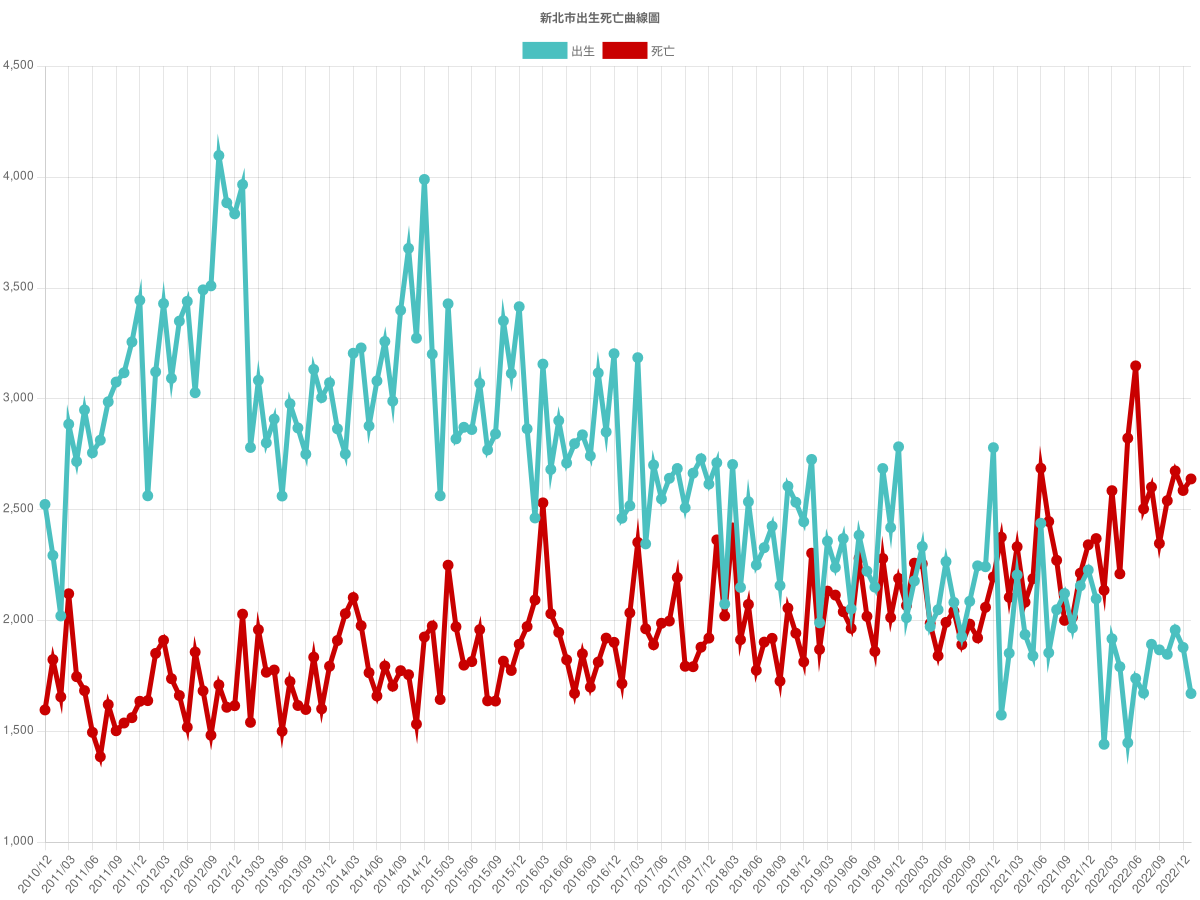
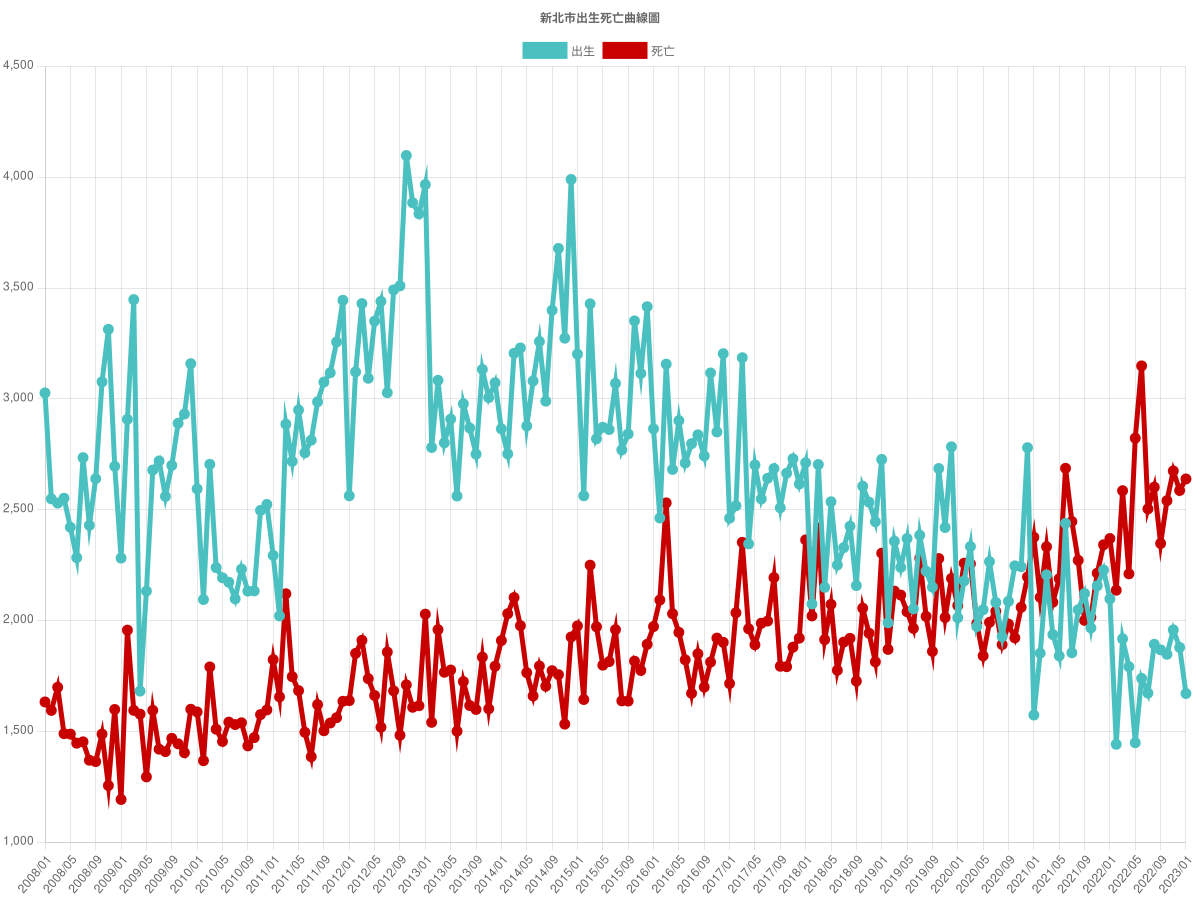
merge old data into cities with old parts

Changed region(s): [[0.0308, 0.0933, 1.0, 0.9956]]

diff --git a/scripts/04_graph_city.php b/scripts/04_graph_city.php
@@ -20,14 +20,46 @@ foreach (glob($docsPath . '/*.csv') as $csvFile) {
         'datasets' => [],
     ];
     $poolBirth = $poolDeath = [];
+
+    $baseFile = '';
+    switch ($p['filename']) {
+        case '臺南市':
+            $baseFile = $basePath . '/tmp/臺南縣.json';
+            break;
+        case '高雄市':
+            $baseFile = $basePath . '/tmp/高雄縣.json';
+            break;
+        case '臺中市':
+            $baseFile = $basePath . '/tmp/臺中縣.json';
+            break;
+        case '桃園市':
+            $baseFile = $basePath . '/tmp/桃園縣.json';
+            break;
+        case '新北市':
+            $baseFile = $basePath . '/tmp/臺北縣.json';
+            break;
+    }
+    if (!empty($baseFile) && file_exists($baseFile)) {
+        $base = json_decode(file_get_contents($baseFile), true);
+        if (isset($base[1])) {
+            $poolBirth = $base[0];
+            $poolDeath = $base[1];
+        }
+    }
+
     $fh = fopen($csvFile, 'r');
     $head = fgetcsv($fh, 2048);
     while ($line = fgetcsv($fh, 2048)) {
         $data = array_combine($head, $line);
         $parts = explode('/', $data['y/m']);
         $key = $parts[0] . '/' . str_pad($parts[1], 2, '0', STR_PAD_LEFT);
-        $poolBirth[$key] = $data['出生數'];
-        $poolDeath[$key] = $data['死亡數'];
+        if (isset($poolBirth[$key])) {
+            $poolBirth[$key] += $data['出生數'];
+            $poolDeath[$key] += $data['死亡數'];
+        } else {
+            $poolBirth[$key] = $data['出生數'];
+            $poolDeath[$key] = $data['死亡數'];
+        }
     }
     $chart['labels'] = array_keys($poolBirth);
     $chart['datasets'][] = [
@@ -44,6 +76,8 @@ foreach (glob($docsPath . '/*.csv') as $csvFile) {
         'borderWidth' => 5,
         'data' => array_values($poolDeath),
     ];
+
+    file_put_contents($basePath . '/tmp/' . $p['filename'] . '.json', json_encode([$poolBirth, $poolDeath]));
 
     file_put_contents($basePath . '/tmp/chart.json', json_encode([
         'title' => $p['filename'] . '出生死亡曲線圖',
